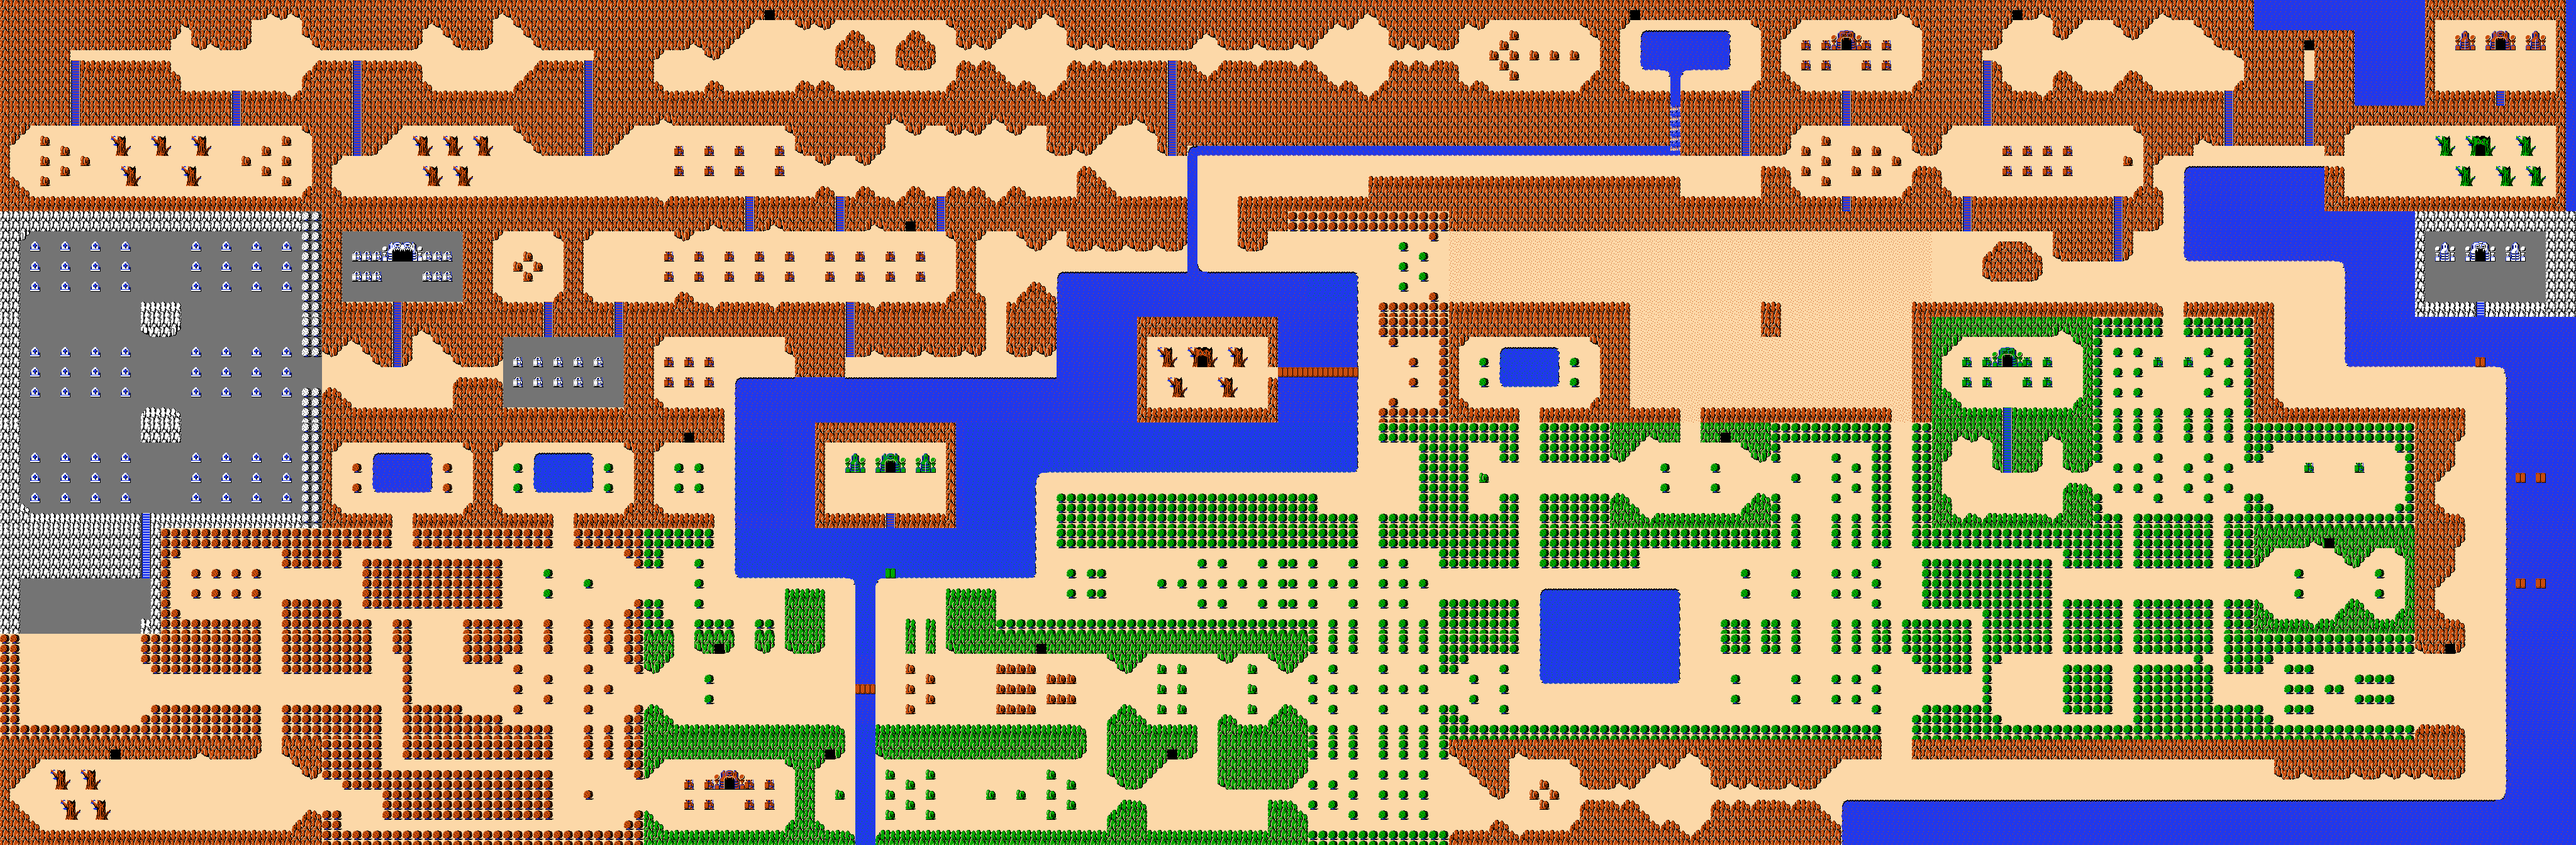
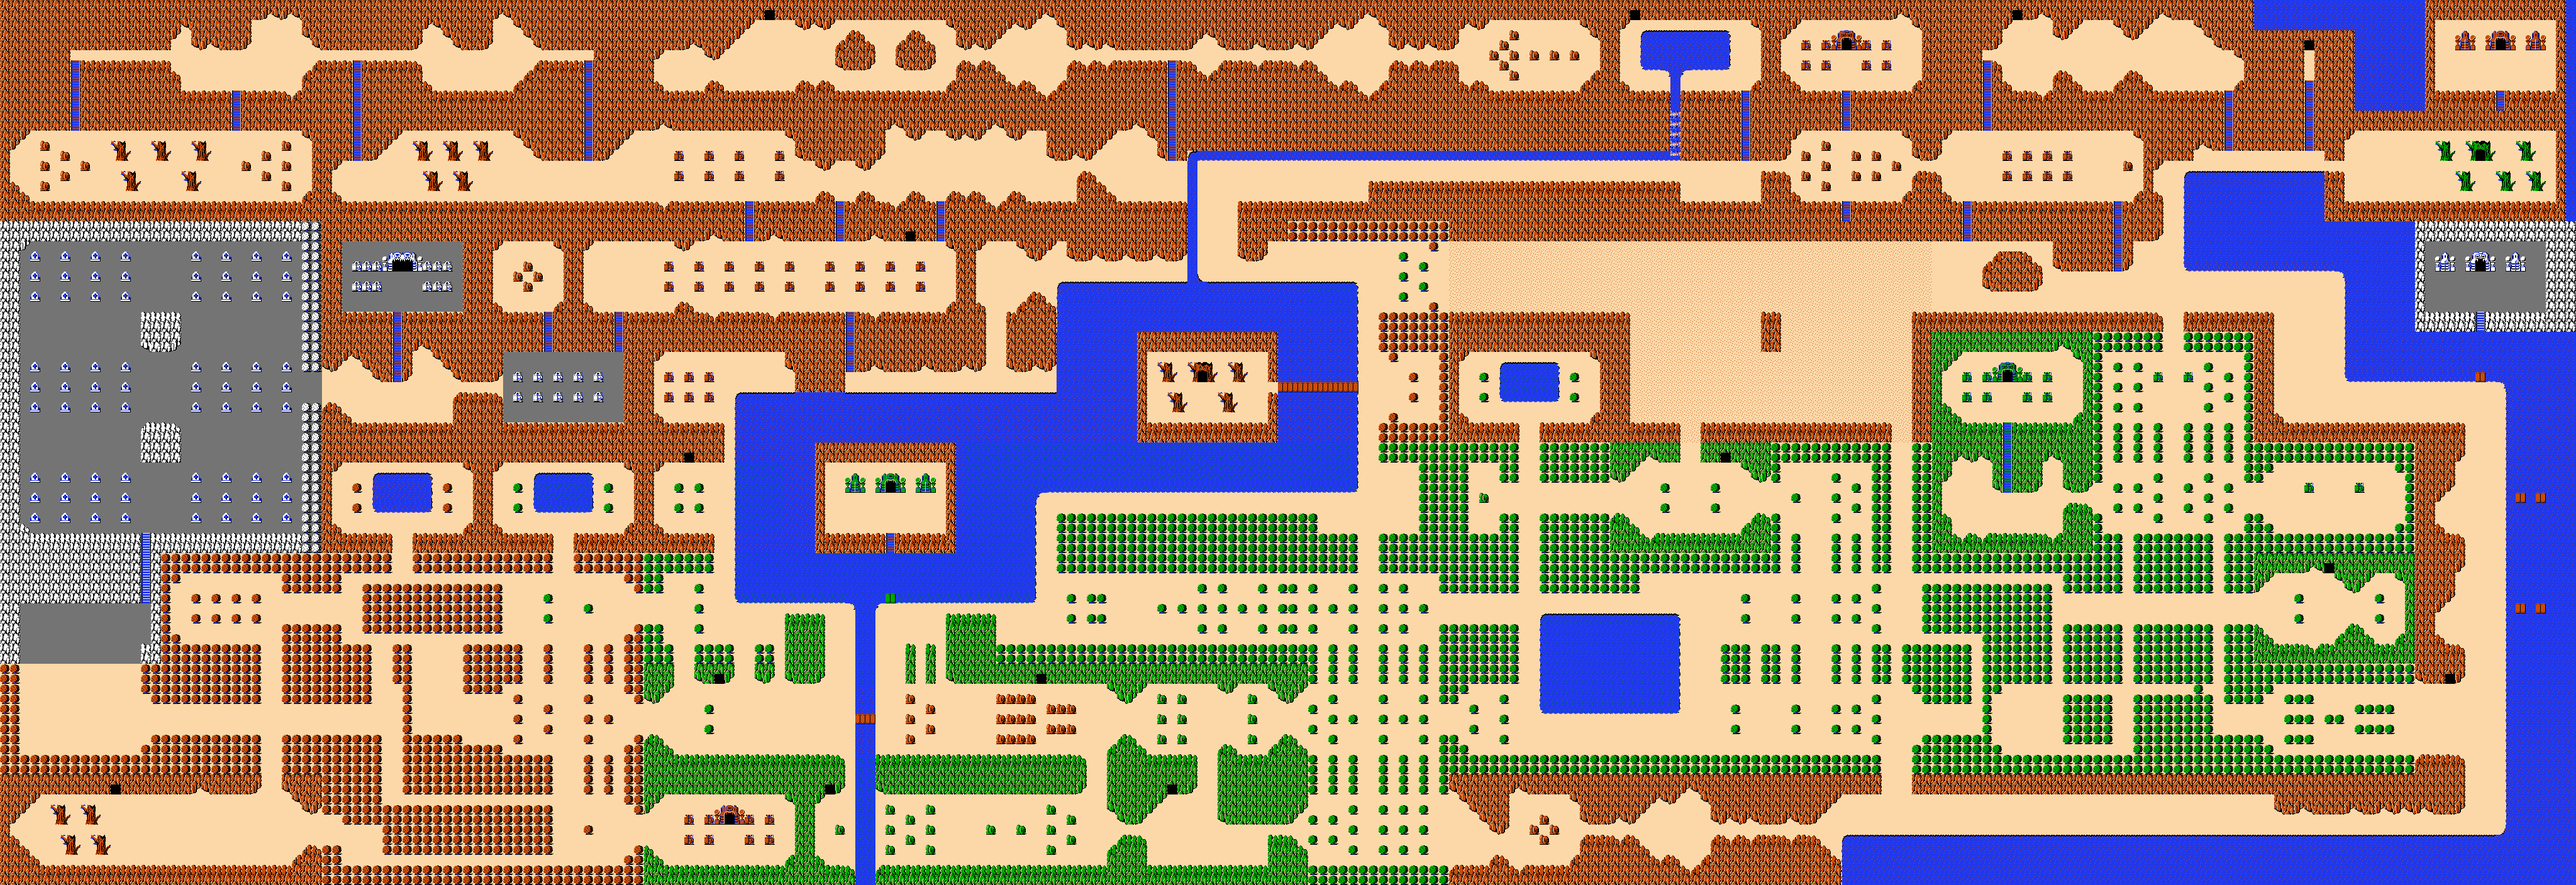
updated map splitter thingy to support variable size/stride

Changed region(s): [[0.0, 0.0, 1.0, 1.0], [0.3125, 0.5, 0.375, 0.5625], [0.3125, 0.5938, 0.375, 0.625]]

diff --git a/split_map.py b/split_map.py
@@ -4,17 +4,24 @@ import pandas as pd
 import numpy as np
 from hex_onehot import ONEHOT_LENGTH, hex_to_onehot
 
-# number of tiles in the overworld
-NUM_MAPS_X = 16
-NUM_MAPS_Y = 8
-
 # x/y size of each square tile, in px
 TILE_SIZE = 16
-# the map image thingy cuts off the bottom 8 pixels of each tile
-MAP_OVERFLOW_Y = 8
-# number of tiles per map
-MAP_SIZE_X = 16
-MAP_SIZE_Y = 11
+
+# Total number of tiles in the overworld
+NUM_TILES_X = 16 * 16
+NUM_TILES_Y = 8 * 11
+
+# number of tiles per map (CAN change) - Default is 16 x 11
+MAP_SIZE_X = 10
+MAP_SIZE_Y = 10
+
+# Stride between each map - Default is 16 x 11
+STRIDE_SIZE_X = 5
+STRIDE_SIZE_Y = 5
+
+# number of maps in the overworld
+NUM_MAPS_X = math.floor((NUM_TILES_X * (MAP_SIZE_X / STRIDE_SIZE_X)) / MAP_SIZE_X)
+NUM_MAPS_Y = math.floor((NUM_TILES_Y * (MAP_SIZE_Y / STRIDE_SIZE_Y)) / MAP_SIZE_Y)
 
 DIRNAME = os.path.dirname(__file__)
 DIR_DATASRC = os.path.join(DIRNAME, 'data_source')
@@ -46,7 +53,7 @@ def main():
 	print('Opening source image')
 	
 	with Image.open(img_path) as img:
-		if (csv_df.shape[0] * TILE_SIZE != img.size[0] or (csv_df.shape[1] * TILE_SIZE - MAP_OVERFLOW_Y * NUM_MAPS_Y) != img.size[1]):
+		if (csv_df.shape[0] * TILE_SIZE != img.size[0] or (csv_df.shape[1] * TILE_SIZE) != img.size[1]):
 			raise RuntimeError('CSV data does not line up with the map image data!')
 		
 		print('Extracting tile sprites')
@@ -58,7 +65,7 @@ def main():
 					this_map_row = math.floor(y / MAP_SIZE_Y)
 					# Crop the tile sprite from the main image & save it to the dict object
 					coord_x = x * TILE_SIZE
-					coord_y = y * TILE_SIZE - (this_map_row * MAP_OVERFLOW_Y)
+					coord_y = y * TILE_SIZE
 					box = (coord_x, coord_y, coord_x + TILE_SIZE, coord_y + TILE_SIZE)
 					tile_sprite_dict[tile_name] = img.crop(box)
 		
@@ -102,13 +109,13 @@ def main():
 	
 	
 	print('Creating individual map files')
+	this_idx = 0
 	for map_y in range(NUM_MAPS_Y):
 		for map_x in range(NUM_MAPS_X):
-			this_idx = map_x + map_y * NUM_MAPS_X
 			# split up the dataframe into the chunk associated with this map
-			this_rangeIdx = csv_df.columns[map_y * MAP_SIZE_Y : (map_y + 1) * MAP_SIZE_Y]
+			this_rangeIdx = csv_df.columns[map_y * STRIDE_SIZE_Y : (map_y * STRIDE_SIZE_Y) + MAP_SIZE_Y ]
 			this_mapColumn = csv_df[this_rangeIdx]
-			this_range = this_mapColumn[map_x * MAP_SIZE_X : (map_x + 1) * MAP_SIZE_X]
+			this_range = this_mapColumn[map_x * STRIDE_SIZE_X : (map_x * STRIDE_SIZE_X) + MAP_SIZE_X]
 			this_range = pd.DataFrame(this_range.to_numpy()) # force reset the axes to 0
 			
 			# Create an image for this map
@@ -127,10 +134,12 @@ def main():
 			this_map.save(os.path.join(DIR_MAP_OUTPUT, f'{this_idx}.png'), 'PNG')
 			
 			# Convert into one-hot vectors
-			onehot = this_range.apply(lambda x: x.astype(str).map(hex_to_onehot))
-			np.save(os.path.join(DIR_MAPVECTORS_NP_OUTPUT, f'{this_idx}.npy'), onehot.to_numpy(), allow_pickle=True)
-			onehot.to_csv(os.path.join(DIR_MAPVECTORS_CSV_OUTPUT, f'{this_idx}.csv'), header=None, index=None)
-			print(f'  {this_idx+1} of {NUM_MAPS_X * NUM_MAPS_Y}   ', end='\r')
+			# onehot = this_range.apply(lambda x: x.astype(str).map(hex_to_onehot))
+			# np.save(os.path.join(DIR_MAPVECTORS_NP_OUTPUT, f'{this_idx}.npy'), onehot.to_numpy(), allow_pickle=True)
+			# onehot.to_csv(os.path.join(DIR_MAPVECTORS_CSV_OUTPUT, f'{this_idx}.csv'), header=None, index=None)
+			# print(f'  {this_idx+1} of {NUM_MAPS_X * NUM_MAPS_Y}   ', end='\r')
+			
+			this_idx += 1
 	
 	notes = ''
 	for tile_name in all_tile_names:
